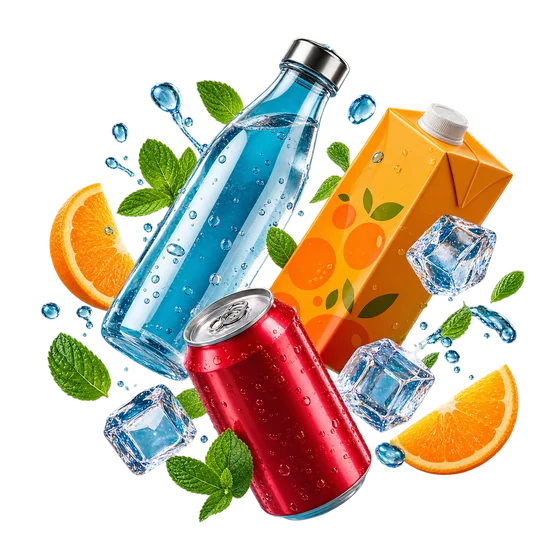
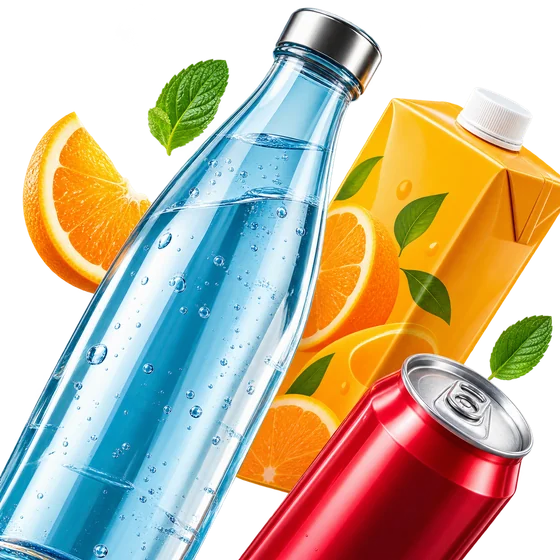
feat(home): add curated category square illustrations and harmonized pastel tones

diff --git a/src/domain/home/homeScreenModel.js b/src/domain/home/homeScreenModel.js
@@ -84,11 +84,15 @@ export function getHomeBanners({ isFitConfigured = false } = {}) {
 export const HOME_DEPT_SHORT_LABELS = {
   dairy_eggs: { ru: 'Молочные продукты', kz: 'Сүт өнімдері' },
   water_beverages: { ru: 'Вода и напитки', kz: 'Су және сусындар' },
-  sweets: { ru: 'Сладости', kz: 'Тәттілер' },
-  meat: { ru: 'Мясо и птица', kz: 'Ет және құс' },
-  bread: { ru: 'Хлеб и выпечка', kz: 'Нан өнімдері' },
-  snacks: { ru: 'Снеки и орехи', kz: 'Снектер мен жаңғақтар' },
   fruits_veg: { ru: 'Фрукты и овощи', kz: 'Жемістер мен көкөністер' },
+  bread: { ru: 'Хлеб и выпечка', kz: 'Нан өнімдері' },
+  grocery: { ru: 'Бакалея', kz: 'Бакалея' },
+  ready_meals: { ru: 'Кулинария', kz: 'Аспаздық' },
+  snacks: { ru: 'Снеки и орехи', kz: 'Снектер мен жаңғақтар' },
+  sweets: { ru: 'Сладости', kz: 'Тәттілер' },
+  tea_coffee: { ru: 'Чай и кофе', kz: 'Шай және кофе' },
+  fish: { ru: 'Рыба и морепродукты', kz: 'Балық және теңіз өнімдері' },
+  meat: { ru: 'Мясо и птица', kz: 'Ет және құс' },
   deli: { ru: 'Колбасы и деликатесы', kz: 'Шұжықтар мен деликатестер' },
   frozen: { ru: 'Заморозка', kz: 'Мұздатылған өнімдер' },
 }
@@ -109,6 +113,46 @@ export const HOME_DEPARTMENTS = [
     key: 'water_beverages',
     shape: 'square',
     image: '/catalog-categories/category-water-beverages-square.webp',
+  },
+  {
+    key: 'fruits_veg',
+    shape: 'square',
+    image: '/catalog-categories/category-fruits-veg-square.webp',
+  },
+  {
+    key: 'bread',
+    shape: 'square',
+    image: '/catalog-categories/category-bread-square.webp',
+  },
+  {
+    key: 'grocery',
+    shape: 'square',
+    image: '/catalog-categories/category-grocery-square.webp',
+  },
+  {
+    key: 'ready_meals',
+    shape: 'square',
+    image: '/catalog-categories/category-ready-meals-square.webp',
+  },
+  {
+    key: 'snacks',
+    shape: 'square',
+    image: '/catalog-categories/category-snacks-square.webp',
+  },
+  {
+    key: 'sweets',
+    shape: 'square',
+    image: '/catalog-categories/category-sweets-square.webp',
+  },
+  {
+    key: 'tea_coffee',
+    shape: 'square',
+    image: '/catalog-categories/category-tea-coffee-square.webp',
+  },
+  {
+    key: 'fish',
+    shape: 'square',
+    image: '/catalog-categories/category-fish-square.webp',
   },
 ].map((dept) => {
   const showcase = getCategoryShowcase(dept.key)

diff --git a/src/screens/HomeScreen.css b/src/screens/HomeScreen.css
@@ -877,63 +877,63 @@
   white-space: nowrap;
 }
 
-/* Modern Minimalist Department Pastel Tones (matching catalog showcase) */
+/* Modern Minimalist Department Pastel Tones (harmonized with custom 3D gourmet illustrations) */
 .tone-dairy_eggs,
 .tone-dairy {
-  --dept-hue: #d4e5ee;
+  --dept-hue: #e4eff9;
 }
 .tone-water_beverages,
 .tone-water {
-  --dept-hue: #b5dfce;
-}
-.tone-sweets {
-  --dept-hue: #dcc8ef;
-}
-.tone-meat {
-  --dept-hue: #edb5a5;
-}
-.tone-bread {
-  --dept-hue: #e0c69d;
-}
-.tone-snacks {
-  --dept-hue: #f1d48e;
+  --dept-hue: #d9f3ec;
 }
 .tone-fruits_veg,
 .tone-fruits {
-  --dept-hue: #c3dc9c;
+  --dept-hue: #e3f2e4;
 }
-.tone-deli {
-  --dept-hue: #edb5a5;
-}
-.tone-frozen {
-  --dept-hue: #c1d7f1;
-}
-.tone-tea_coffee {
-  --dept-hue: #e0c69d;
+.tone-bread {
+  --dept-hue: #f9eedb;
 }
 .tone-grocery {
-  --dept-hue: #e6d5ad;
-}
-.tone-fish {
-  --dept-hue: #c4e0e5;
+  --dept-hue: #f3efe0;
 }
 .tone-ready_meals {
-  --dept-hue: #f1d48e;
+  --dept-hue: #fbeae0;
+}
+.tone-snacks {
+  --dept-hue: #fdf1d5;
+}
+.tone-sweets {
+  --dept-hue: #f4e5f0;
+}
+.tone-tea_coffee {
+  --dept-hue: #ece4da;
+}
+.tone-fish {
+  --dept-hue: #dcedf7;
+}
+.tone-meat {
+  --dept-hue: #fce6e2;
+}
+.tone-deli {
+  --dept-hue: #fce8e4;
+}
+.tone-frozen {
+  --dept-hue: #dfeffb;
 }
 .tone-baby_food {
-  --dept-hue: #f0dfb7;
+  --dept-hue: #fff1da;
 }
 .tone-sauces_spices {
-  --dept-hue: #e9bd9e;
+  --dept-hue: #fbe7db;
 }
 .tone-healthy {
-  --dept-hue: #b4d696;
+  --dept-hue: #e0f4e8;
 }
 .tone-personal_care {
-  --dept-hue: #dcc8ef;
+  --dept-hue: #ebe7f7;
 }
 .tone-household {
-  --dept-hue: #c1d7f1;
+  --dept-hue: #e1edf7;
 }
 
 /* Final Catalog Tile */

diff --git a/src/screens/HomeScreen.jsx b/src/screens/HomeScreen.jsx
@@ -851,12 +851,16 @@ export default function HomeScreen() {
     const FALLBACK_COUNTS = {
       dairy_eggs: 480,
       water_beverages: 650,
-      sweets: 820,
-      meat: 340,
-      bread: 210,
-      drinks: 650,
       fruits_veg: 290,
+      bread: 210,
       grocery: 1150,
+      ready_meals: 180,
+      snacks: 360,
+      sweets: 820,
+      tea_coffee: 240,
+      fish: 190,
+      meat: 340,
+      drinks: 650,
       frozen: 310,
     }
     return FALLBACK_COUNTS[deptKey] || 280
